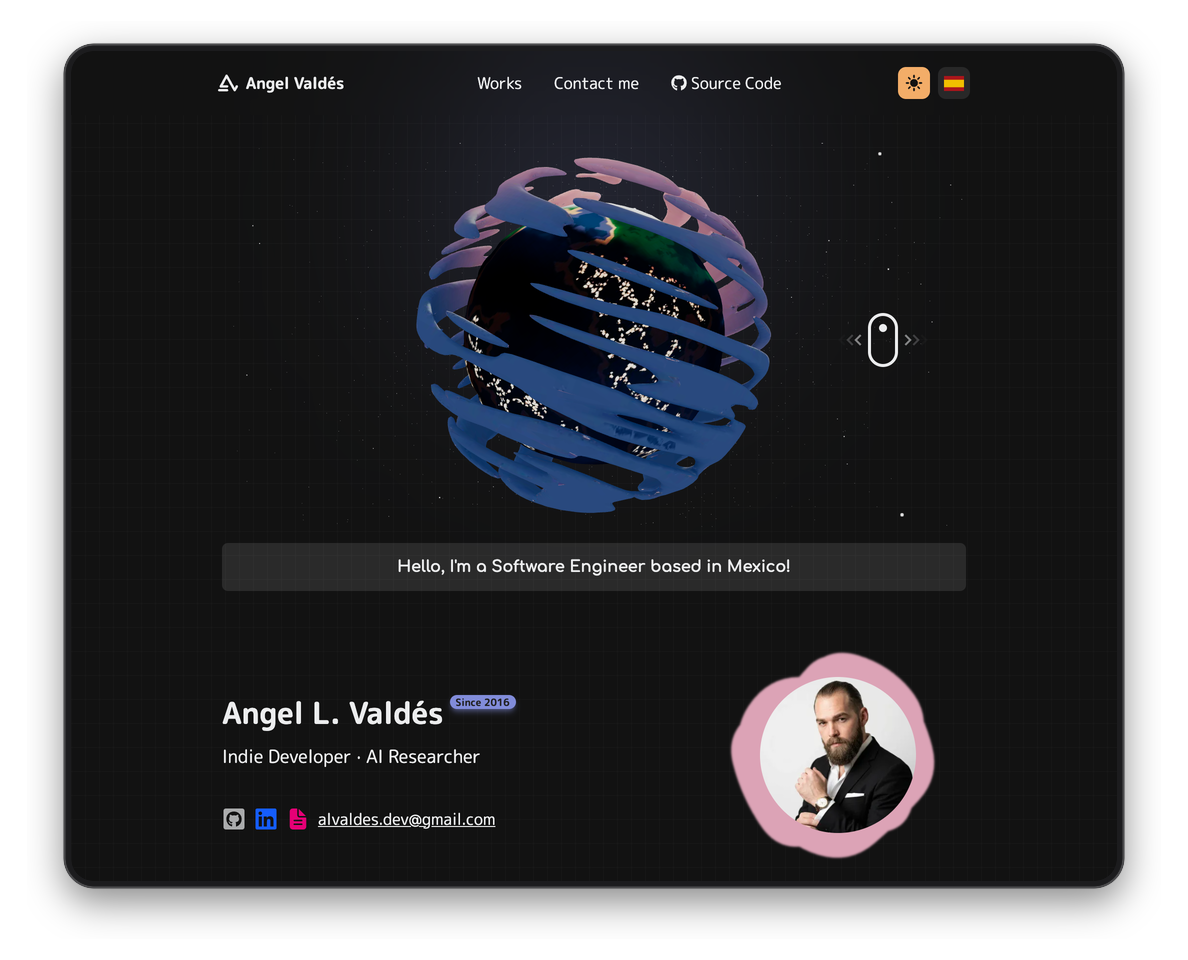
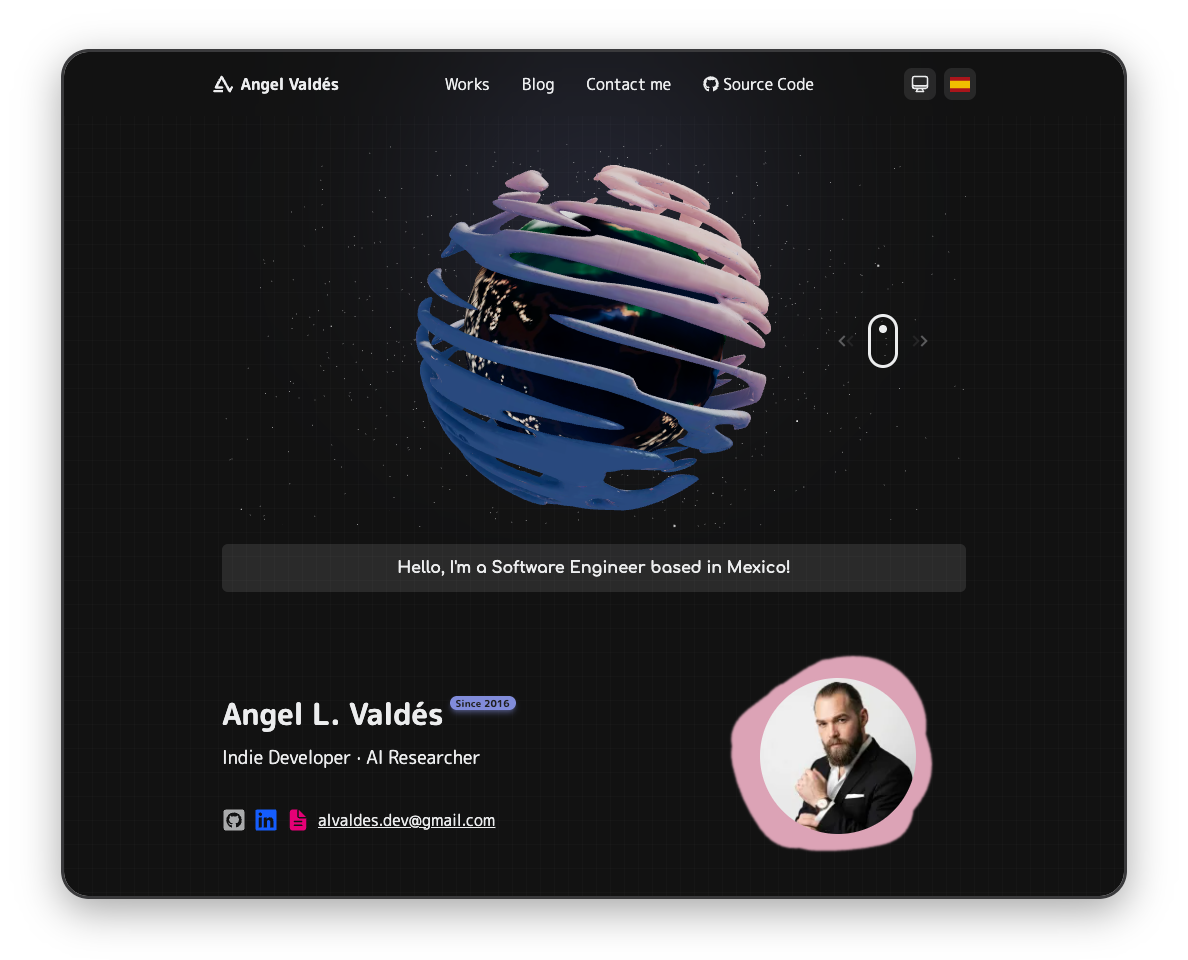
feat(theme): add system mode to the theme switcher
The button cycles light, dark and system; the icon shows the current
preference and system follows OS changes live. The button background
now blends in like the other nav buttons, with the accent on the icon.

diff --git a/src/styles/global.css b/src/styles/global.css
@@ -1,6 +1,6 @@
 @import "tailwindcss";
 
-/* Class-based dark mode, toggled by ThemeSwitcher on <html>. */
+/* Class-based dark mode, set on <html> by BaseHead and ThemeSwitcher. */
 @custom-variant dark (&:where(.dark, .dark *));
 
 /* Self-hosted latin subsets, same files portfolio-next ships (licenses in public/fonts). */
@@ -44,9 +44,8 @@
 	--primary-foreground: #f0e7bd;
 	--secondary: #a1455c;
 	--secondary-strong: #8d354b;
-	/* The theme toggle previews the other theme: a palette night in light, a warm sun in dark. */
+	/* Accent for the theme toggle icon; its background blends in like the other nav buttons. */
 	--toggle: #2b3564;
-	--toggle-foreground: #f0e7bd;
 }
 
 .dark {
@@ -56,8 +55,7 @@
 	--primary-foreground: #202020;
 	--secondary: #818cda;
 	--secondary-strong: #adb6eb;
-	--toggle: #f3ad68;
-	--toggle-foreground: #121212;
+	--toggle: var(--foreground);
 }
 
 @theme inline {
@@ -68,7 +66,6 @@
 	--color-secondary: var(--secondary);
 	--color-secondary-strong: var(--secondary-strong);
 	--color-toggle: var(--toggle);
-	--color-toggle-foreground: var(--toggle-foreground);
 
 	--font-mplus: "M PLUS Rounded 1c", ui-sans-serif, system-ui, sans-serif;
 	--font-comfortaa: "Comfortaa", ui-sans-serif, system-ui, sans-serif;

diff --git a/src/components/islands/useIsDarkTheme.ts b/src/components/islands/useIsDarkTheme.ts
@@ -1,6 +1,6 @@
 import { useEffect, useState } from "react";
 
-// Follows the `dark` class that ThemeSwitcher toggles on <html>.
+// Follows the `dark` class that BaseHead and ThemeSwitcher set on <html>.
 export function useIsDarkTheme(): boolean {
 	const [isDark, setIsDark] = useState(() =>
 		typeof document === "undefined" ? false : document.documentElement.classList.contains("dark"),

diff --git a/README.md b/README.md
@@ -50,7 +50,7 @@ Open [http://localhost:4321](http://localhost:4321) (Spanish) or [http://localho
 ## ✨ Features
 
 - 🌍 **i18n:** Spanish at `/`, English under `/en/`, with `hreflang` alternates and a language switcher. On Vercel, `/` sends visitors whose browser does not prefer Spanish to `/en/`, unless they picked a language with the switcher (remembered in a `lang` cookie). Requests without `Accept-Language`, such as crawlers, stay on `/`. Legacy `/es/...` URLs redirect permanently to the unprefixed routes. All rules live in `vercel.json`.
-- 🎨 **Themes:** Dark and light mode, saved per visitor, applied before the first paint (no flash).
+- 🎨 **Themes:** Light, dark and system mode, cycled from one button. The choice is saved per visitor and applied before the first paint (no flash); system follows OS changes live.
 - 🎭 **3D banner:** Interactive Earth and stars, loaded only when the banner is visible.
 - 🖼 **Optimized images:** Responsive `srcset` generated at build time.
 - 🔤 **Self-hosted fonts:** M PLUS Rounded 1c and Comfortaa, no requests to Google Fonts.
